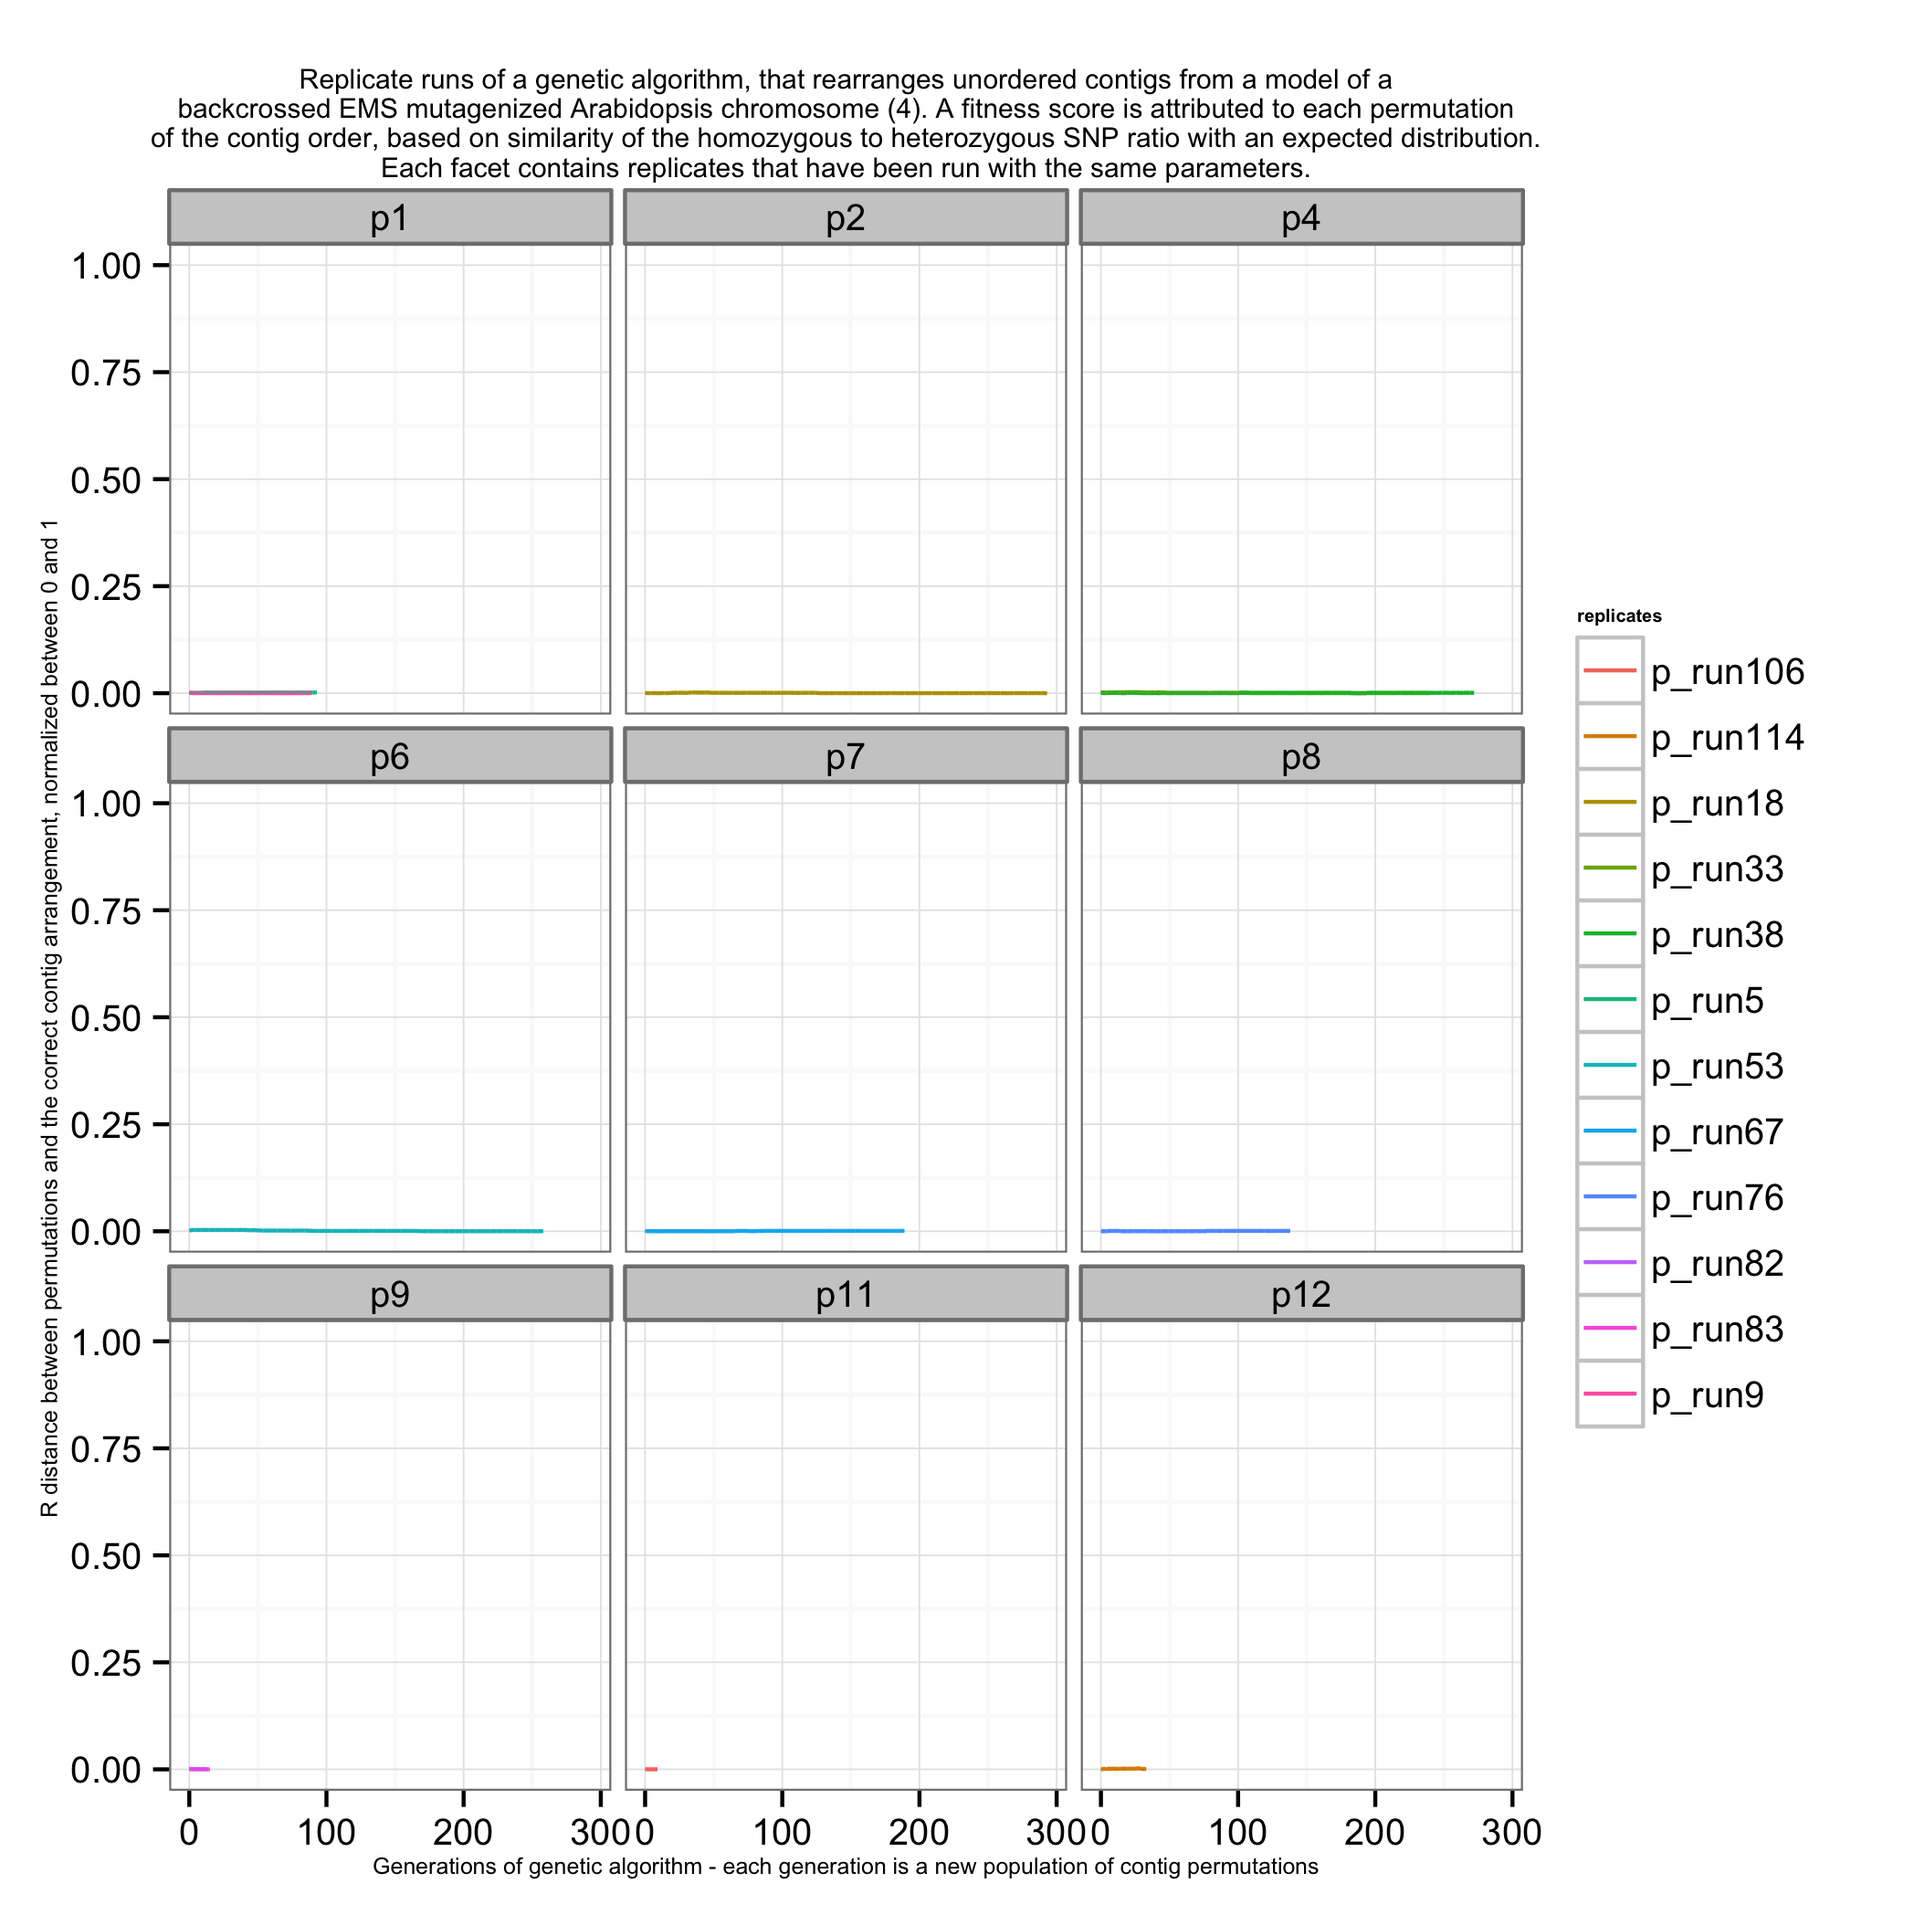
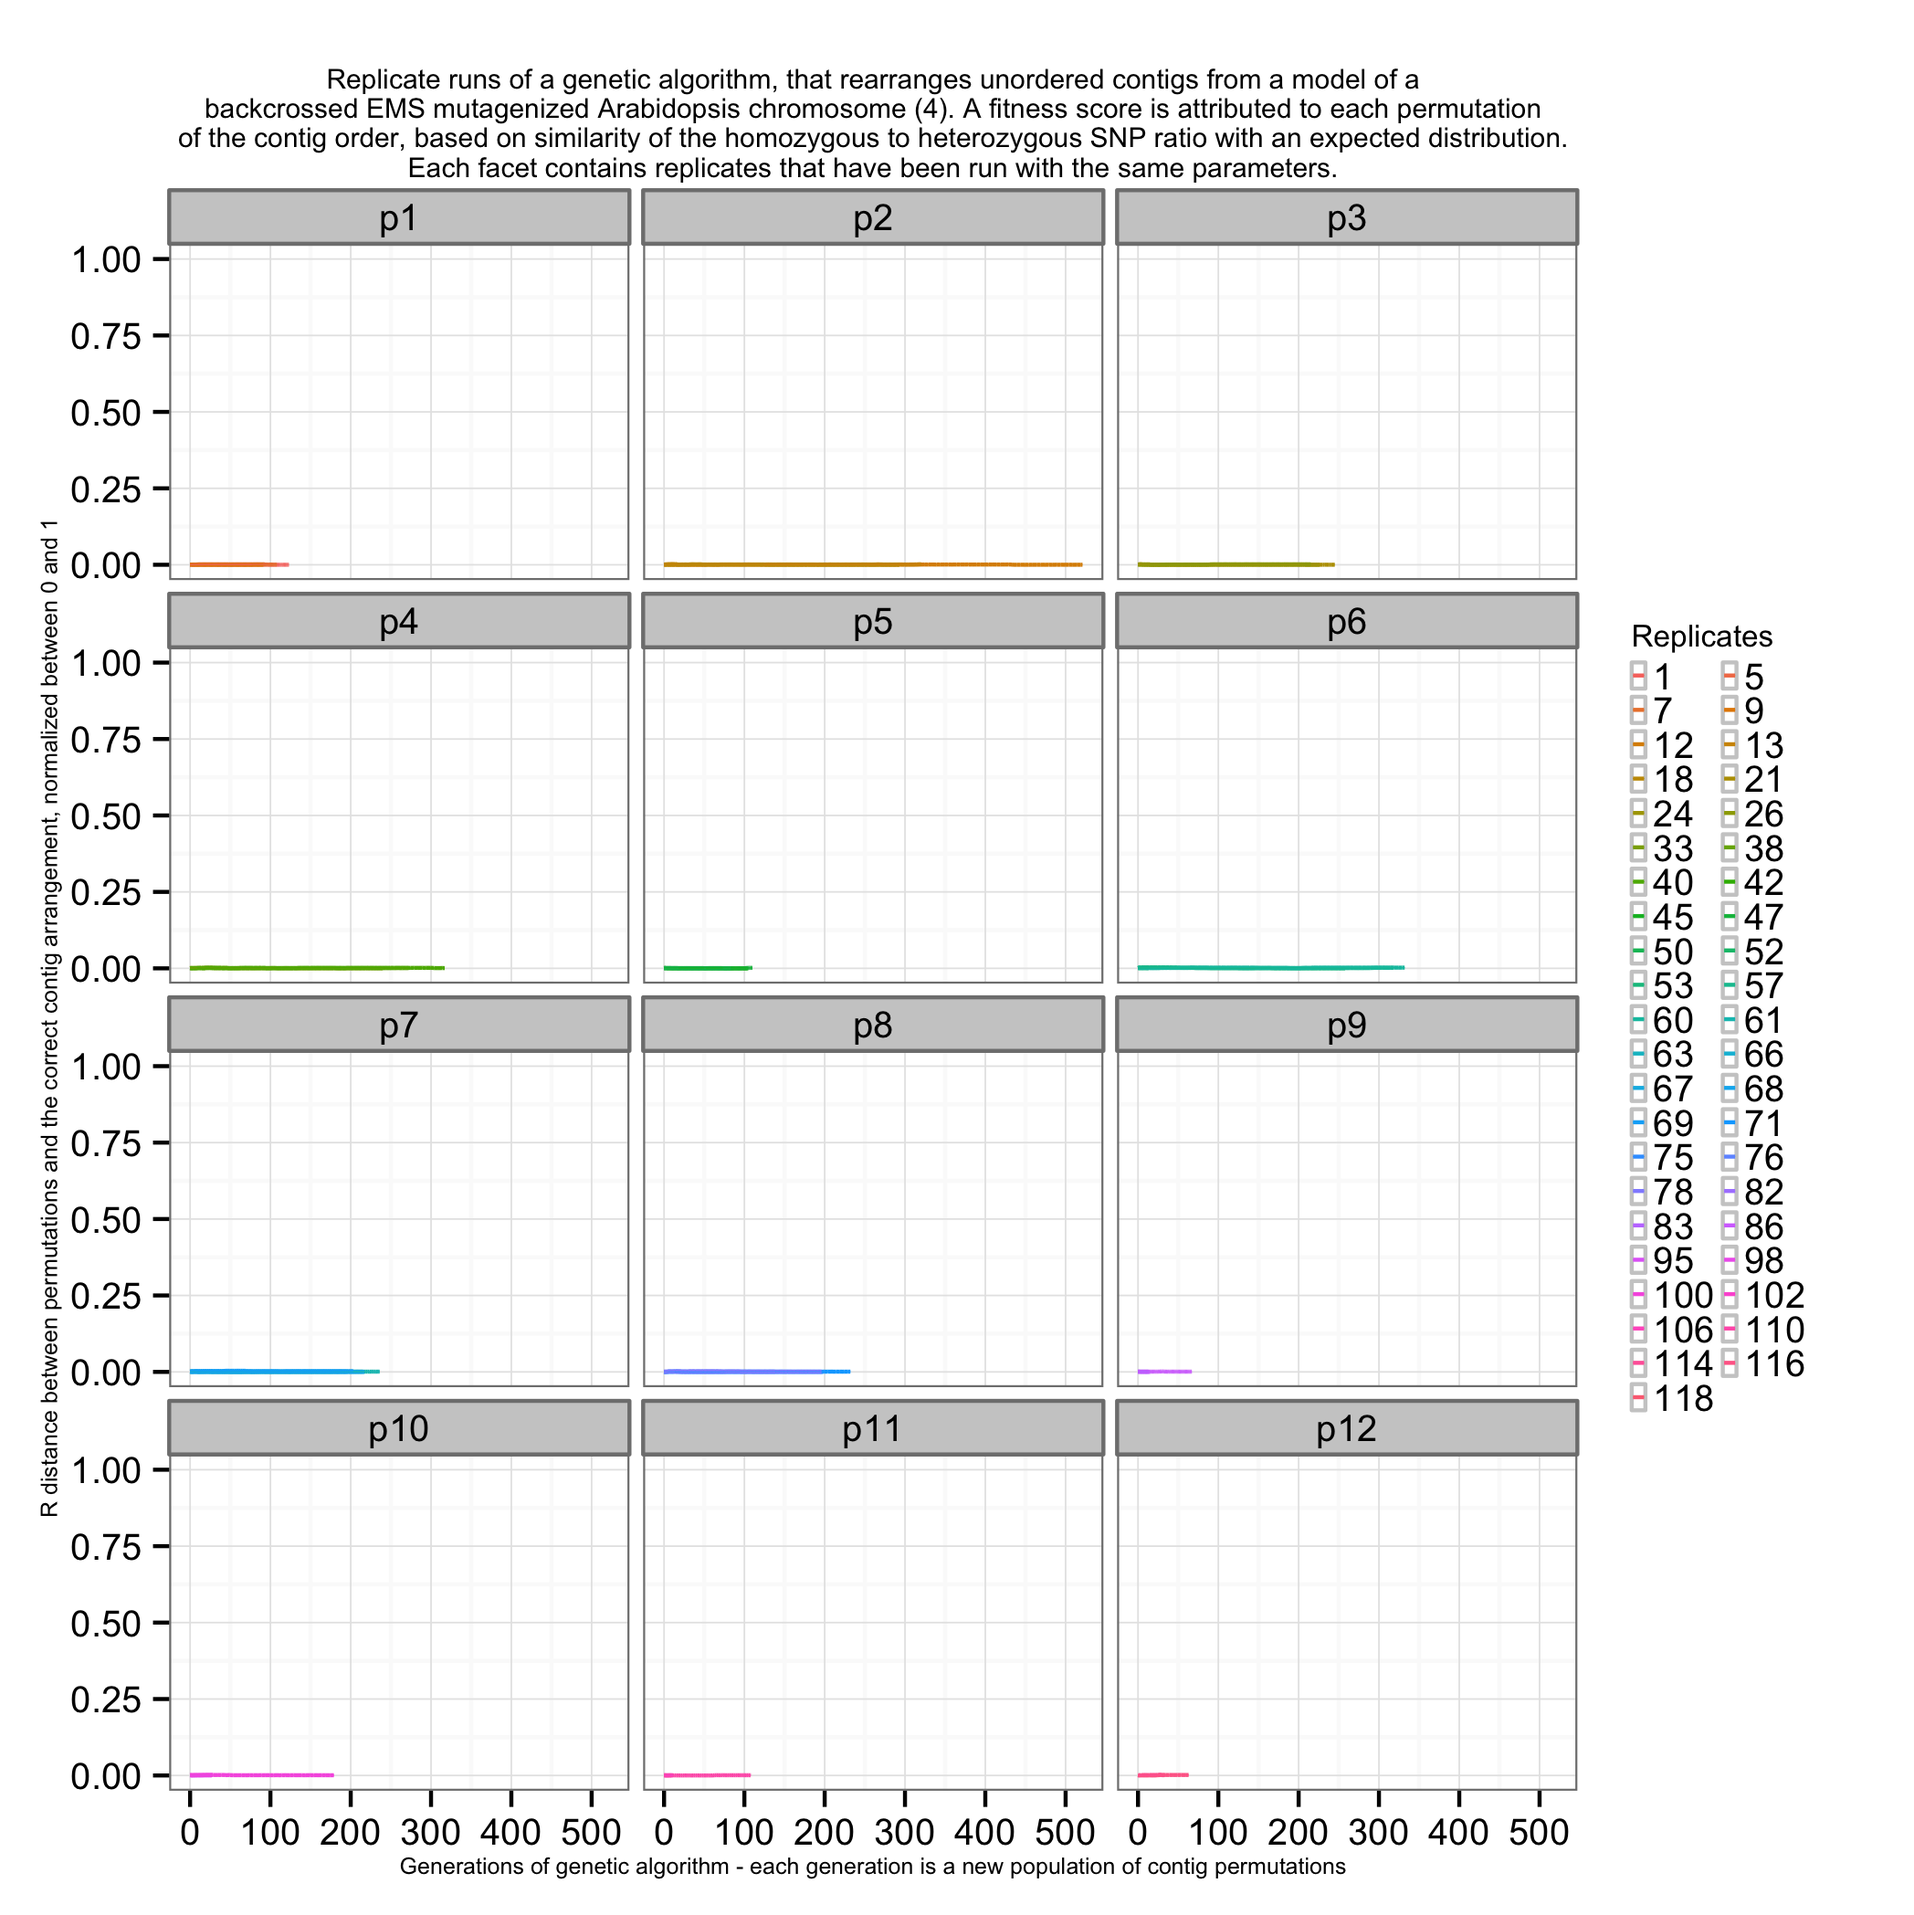
figures look better, more data 23rd June

diff --git a/multiple_runs_performance.rb b/multiple_runs_performance.rb
@@ -9,22 +9,26 @@ backcrossed EMS mutagenized Arabidopsis chromosome (4). A fitness score is attri
 of the contig order, based on similarity of the homozygous to heterozygous SNP ratio with an expected distribution.
 Each facet contains replicates that have been run with the same parameters.'
 
-if method == 'csv' || method == 'both'
-	UPlot.data_save(dataset)
-end
+unless method == nil
 
-if method == 'plot' || method == 'both'
-	shorts, x = ['fits','dev','square','ham','r_dist','lcs','kt'], 0
-	y_axis = ['Permutation fitness score (similarity of SNP ratio across the permutation, to that of correctly ordered contigs)',
-		'Similarity score (compliment proportion of deviation distance between permutations and the correct contig arrangement), normalized between 0 and 1',
-		'Squared similarity score (compliment proportion of squared deviation distance between permutations and the correct contig arrangement), normalized between 0 and 1',
-		'Hamming similarity (compliment proportion of hamming distance between permutations and the correct contig arrangement), normalized between 0 and 1',
-		'R distance between permutations and the correct contig arrangement, normalized between 0 and 1',
-		'Longest common subsequence between permutations and the correct contig arrangement, normalized between 0 and 1',
-		'Compliment of Kendall\'s tau distance between permutations and the correct contig arrangement, normalized between 0 and 1']
-	['Fitness','Deviation','Square','Hamming','R','LCS','KT'].each do |metric|
-		filename = "umbrella_plot_#{[shorts[x]]}"
-		UPlot.uplot(dataset, filename, metric, y_axis[x], title)
-		x+=1
+	if method == 'csv' || method == 'both'
+		UPlot.data_save(dataset)
 	end
+
+	if method == 'plot' || method == 'both'
+		shorts, x = ['fits','dev','square','ham','r_dist','lcs','kt'], 0
+		y_axis = ['Permutation fitness score (similarity of SNP ratio across the permutation, to that of correctly ordered contigs)',
+			'Similarity score (compliment proportion of deviation distance between permutations and the correct contig arrangement), normalized between 0 and 1',
+			'Squared similarity score (compliment proportion of squared deviation distance between permutations and the correct contig arrangement), normalized between 0 and 1',
+			'Hamming similarity (compliment proportion of hamming distance between permutations and the correct contig arrangement), normalized between 0 and 1',
+			'R distance between permutations and the correct contig arrangement, normalized between 0 and 1',
+			'Longest common subsequence between permutations and the correct contig arrangement, normalized between 0 and 1',
+			'Compliment of Kendall\'s tau distance between permutations and the correct contig arrangement, normalized between 0 and 1']
+		['Fitness','Deviation','Square','Hamming','R','LCS','KT'].each do |metric|
+			filename = "umbrella_plot_#{[shorts[x]]}"
+			UPlot.uplot(dataset, filename, metric, y_axis[x], title)
+			x+=1
+		end
+	end
+
 end
